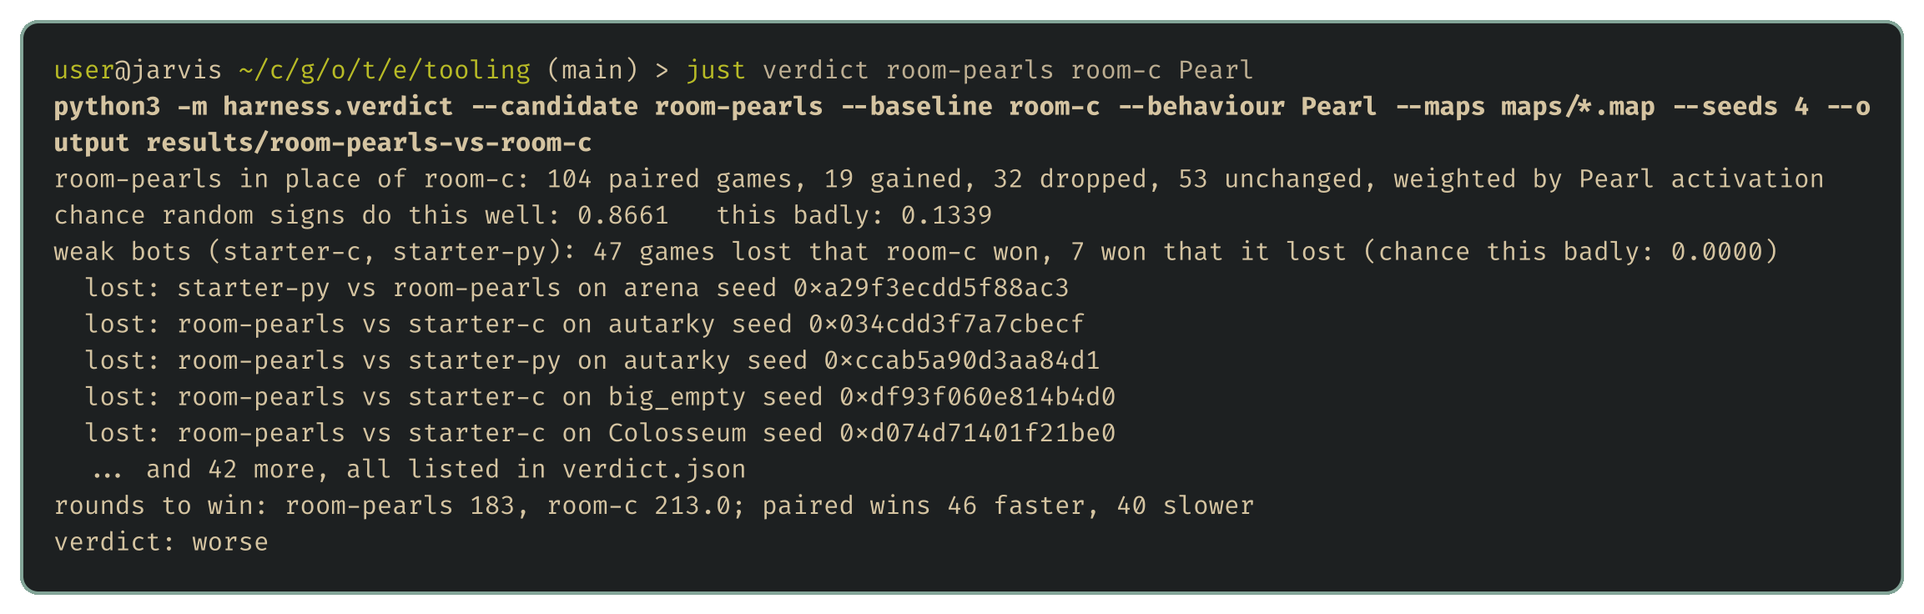
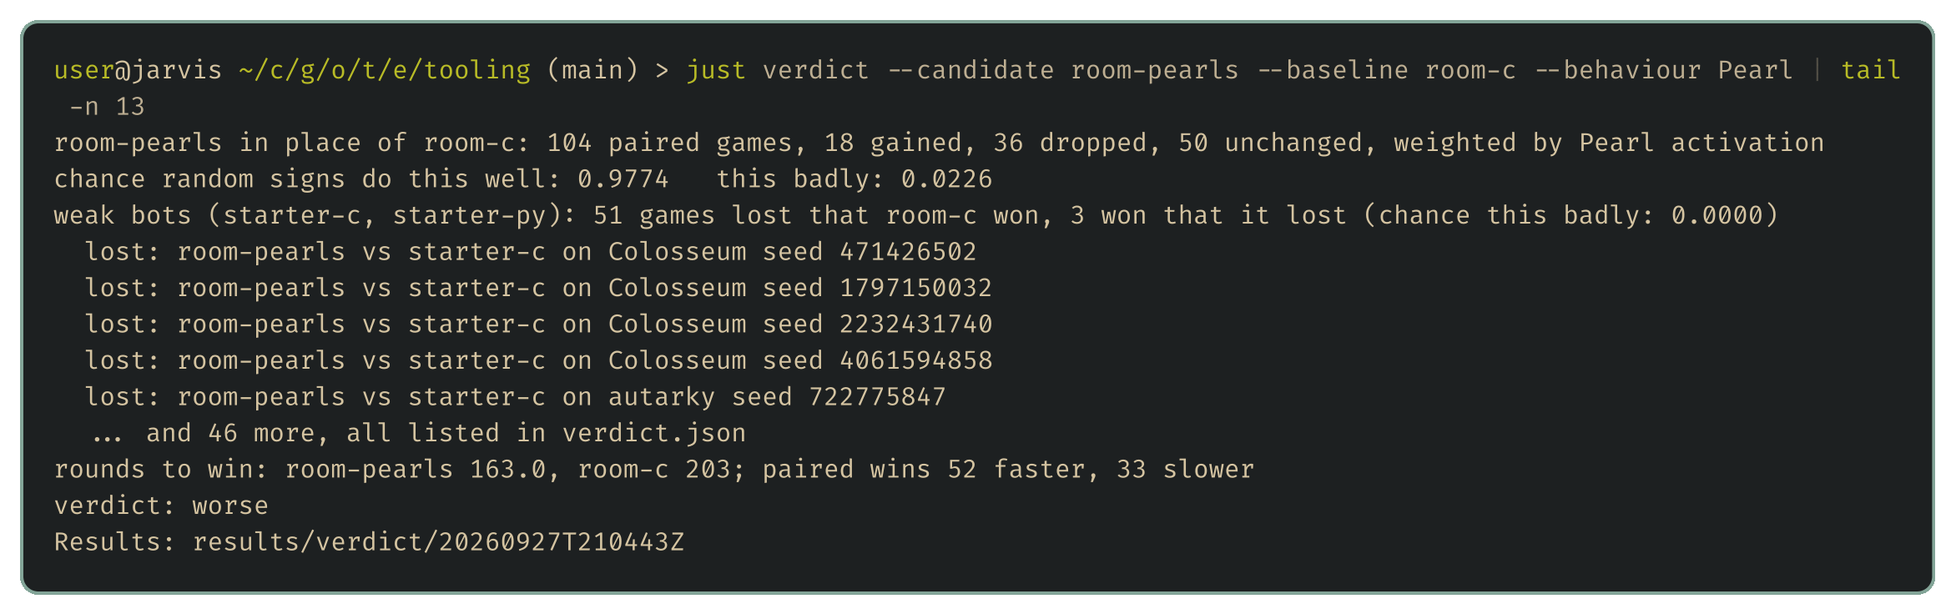
rerun the verdict and unseen maps posts with the released runner

diff --git a/blog/04-better-worse-or-undecided.md b/blog/04-better-worse-or-undecided.md
@@ -1,34 +1,32 @@
 # Better, worse or undecided
 
-With the [evaluation harness](03-the-evaluation-harness.md) we can play as many games as we like. But at the end of the last post we had two bots that make identical moves finishing four wins apart. A results table on its own will always tempt us to read meaning into gaps like that. This post builds the second tool on the wishlist, which answers the question we actually care about: did this change make the bot better?
+> **Editor's note, 28 September 2026.** I've rewritten this post to be shorter and to use the released verdict, which now plays its games through the released round robin runner. I reran the checks and the pearl-chasing experiment with it, so the numbers below are new.
 
-The command is `just verdict`, with the statistics in [harness/verdict.py](../harness/verdict.py). The current invocation is `just verdict --candidate room-pearls --baseline room-c --behaviour Pearl`; the screenshot below retains the original positional command. You give it a candidate bot and the baseline it changes, and it comes back with one of three answers: better, worse, or undecided.
+With the [harness](03-the-evaluation-harness.md) we can play as many games as we like, but a results table on its own will always tempt us to read meaning into small gaps. This post builds the tool that answers the question we actually care about: did this change make the bot better? The command is `just verdict`, with the statistics in [harness/verdict.py](../harness/verdict.py). You give it a candidate bot and the baseline it changes, and it comes back with one of three answers: better, worse, or undecided.
 
 ## Judging a result against luck
 
-The idea underneath is the same reasoning you'd use to judge any result by eye. Suppose a change made no difference at all. Then every game it won or lost could just as easily have gone the other way, like a coin flip. So the right question isn't "did the candidate win more?" but "how often would coin flips do at least this well?" If the answer is "almost never", the change is probably real. If it's "fairly often", we can't tell yet.
+The idea underneath is the reasoning you'd use to judge any result by eye. Suppose a change made no difference at all. Then every game it won or lost could just as easily have gone the other way, like a coin flip. So the right question isn't "did the candidate win more?" but "how often would coin flips do at least this well?" If the answer is "almost never", the change is probably real. If it's "fairly often", we can't tell yet.
 
-The numbers make this concrete. Out of 100 games, an even match will see one side win 60 or more only about 3% of the time, so a 60–40 result is strong evidence. But one side will win 55 or more about 18% of the time, so 55–45 could easily be luck. The verdict uses the usual cut-off: if coin flips would do this well less than 5% of the time, the candidate is better, and if they'd do this badly less than 5% of the time, it's worse.
+The numbers make this concrete. Out of 100 games, an even match sees one side win 60 or more only about 3% of the time, so a 60–40 result is strong evidence. But one side wins 55 or more about 18% of the time, so 55–45 could easily be luck. The verdict uses the usual cut-off: if coin flips would do this well less than 5% of the time, the candidate is better, and if they'd do this badly less than 5% of the time, it's worse.
 
-The hard part is deciding which games to count, and that's where most of this tool's design goes.
+The hard part is deciding which games to count, and that's where most of the tool's design goes.
 
 ## Comparing like with like
 
-A game of unswbc depends on two things besides the bots: the map, and the seed that decides where pearls appear and how each bot's random choices fall. So the verdict plays every game twice. The candidate plays the baseline on a map, side and seed, and then the baseline plays that same map, side and seed against the same opponent, sitting in the candidate's seat.
+A game depends on two things besides the bots: the map, and the seed that decides where pearls appear and how each bot's random choices fall. So the verdict plays every game twice. The candidate plays an opponent on a map, side and seed, and then the baseline plays that same map, side and seed against the same opponent, sitting in the candidate's seat.
 
-Seeded games are deterministic. If the candidate's change never comes into play in a game, both versions make exactly the same moves and the two games are identical. They cancel out, and only the games whose result changed are left:
+Seeded games are deterministic. If the candidate's change never comes into play in a game, both versions make exactly the same moves, the two games are identical, and they cancel out. Only the games whose result changed are left:
 
 ![Twelve pairs of games, the baseline above and the candidate below. Eight pairs have the same result and don't count. Four are outlined: in three the candidate won a game the baseline lost, and in one it lost a game the baseline won. Under each pair a bar shows how much of the game the changed behaviour ran.](images/paired-games.svg)
 
-This matters more than it looks. Most changes to a bot only fire in some situations: a rule for portals, a tactic for narrow corridors. If a change never fires on nine maps in ten and wins the tenth outright, counting every game hides that win among nine maps' worth of games that couldn't have gone any other way. Pairing throws those games out, so a change is judged on the games it could actually affect.
+This matters more than it looks, because most changes to a bot only fire in some situations: a rule for portals, a tactic for narrow corridors. If a change never fires on nine maps in ten and wins the tenth outright, counting every game buries that win under nine maps' worth of games that couldn't have gone any other way. Pairing throws those out, so a change is judged on the games it could actually affect.
 
 ## Weighing each game by how much the change ran
 
-Pairing still treats every changed game the same, whether the new behaviour ran for most of the game or for two turns near the end. A game where it ran for most of the turns says much more about it. So each bot names its behaviours: on every turn it writes the one that chose its move as its indicator, the short text the viewer shows beside a dragon. Running games with `unswbc run -v` puts every indicator in the log, so the verdict can count them.
+Pairing still treats every changed game the same, whether the new behaviour ran for most of the game or for two turns near the end, and the first kind says much more about it. So each bot names its behaviours. On every turn it writes the one that chose its move as its indicator, the short text the viewer shows beside a dragon, and if you tell the verdict which behaviour changed, it weights each changed game by the share of the candidate's turns that behaviour was active.
 
-If you tell the verdict which behaviour changed, it weights each changed game by the share of the candidate's turns in which that behaviour was active. A result the change played a large part in counts for more than one it barely touched.
-
-With weights, counting wins isn't enough any more, so the test becomes a sign flip. Add up the weighted changes, then ask how often random signs on the same changes would add up to at least as much:
+With weights, counting wins isn't enough any more, so the test becomes a sign flip: add up the weighted changes, then ask how often random signs on the same changes would add up to at least as much.
 
 ```python
 def sign_flip_p_values(changes: list[float], trials: int = 200_000) -> tuple[float, float]:
@@ -51,45 +49,41 @@ It's the coin-flip question again, asked of the changes themselves. With every w
 
 ## Games we should never lose
 
-Testing a change against the bot it came from has a blind spot. It never shows how the bot does against bots unlike itself. So the candidate and the baseline also both play a set of weak bots, the two starters, on the same maps, sides and seeds, and those games are paired too.
+Testing a change against the bot it came from has a blind spot: it never shows how the bot does against bots unlike itself. So the candidate and the baseline both also play the two starter bots, on the same maps, sides and seeds, and those games are paired too.
 
-The standard here is different. A decent bot should beat a bot that walks at random every single time, so a loss to one can't be put down to bad luck. It should be about as likely as a mouse beating a lion. A candidate that loses more of these games than the baseline did is never called better, and one that loses significantly more is worse. The verdict also lists every game the candidate lost to a weak bot that the baseline won, because each one is a bug to find, whatever the verdict says.
+The standard here is different. A decent bot should beat a bot that walks at random every single time, so a loss to one can't be put down to bad luck. It should be about as likely as a mouse beating a lion. A candidate that loses more of these games than the baseline did is never called better, and the verdict lists every game the candidate lost to a weak bot that the baseline won, because each one is a bug to find whatever the verdict says.
 
-## How hard a win was
-
-A win in 40 rounds and a win in 400 aren't the same result. So the verdict also compares game length, pair by pair: in the pairs both versions won, how often did the candidate win faster? It reports the median rounds to win for each version, and flags any win that's much shorter than the rest, because a very short game is sometimes a fluke worth looking at before trusting it.
+It also compares game length, pair by pair. A win in 40 rounds and a win in 400 aren't the same result, so it reports the median rounds to win for each version and flags any win much shorter than the rest, since a very short game is sometimes a fluke worth looking at before trusting it.
 
 ## Checking the tool on questions we can answer
 
-Before trusting a new tool with a real question, it's worth giving it questions where we already know the answer. For each of the runs below, the bots meet on all 13 bundled maps, from both sides, with four seeds.
+Before trusting a new tool with a real question, it's worth giving it some questions where we already know the answer. Each run below plays the 13 bundled maps from both sides on four seeds.
 
-The first check should be easy: the flood-fill bot from [The choice](02-the-choice.md) in place of the C starter bot, which just wanders about at random, so the flood-fill bot ought to come out clearly better. It does. Of the 104 paired games, 49 came out the same, and of the rest it gained 53 and dropped 2. Even so, it lost 4 games to the Python starter that the C starter had won, which is a reminder that a bot that only counts room can still walk into trouble.
+The first check should be easy: the flood-fill bot from [The choice](02-the-choice.md) in place of the C starter, which just wanders about at random. The flood-fill bot ought to come out clearly better, and it does. Of 104 paired games, 46 came out the same, and of the rest it gained 56 and dropped 2. Even so, it lost 2 games to the Python starter that the C starter had won, which is a reminder that a bot that only counts room can still walk into trouble.
 
-The second check is the more important one. The C and Python versions of the flood-fill bot make exactly the same move in every position, so neither can be better than the other, and a trustworthy tool has to say so. With pairing, the answer is exact rather than statistical: all 104 paired games were identical, nothing changed, and the verdict was undecided. A tool that found a difference here would be finding it in pure noise.
+The second check is the more important one. The C and Python versions of the flood-fill bot make exactly the same move in every position, so neither can be better than the other, and a trustworthy tool has to say so. With pairing, the answer is exact rather than statistical: all 104 paired games were identical, against the weak bots too, and the verdict was undecided. A tool that found a difference here would be finding it in pure noise.
 
 ## A real question
 
 Now for something we don't know the answer to. The flood-fill bot only cares about keeping room to move, and it ignores food completely. That seems like an obvious thing to fix. Eating pearls makes a dragon longer, and the longest dragon decides the game at round 500, so a bot that heads for food ought to do better.
 
-The candidate, `room-pearls`, keeps the flood fill, and adds one rule: when several moves all leave plenty of room, it picks the one nearest to a visible pearl. On the turns where that rule picks a different move from the one room alone would pick, it writes `Pearl` as its indicator, so the verdict can weigh each game by it. The rule decided about one turn in six:
+The candidate, `room-pearls`, keeps the flood fill and adds one rule: when several moves all leave plenty of room, it picks the one nearest a visible pearl. On the turns where that rule changes the move, it writes `Pearl` as its indicator, so the verdict can weigh each game by it:
 
-![A terminal running just verdict room-pearls room-c Pearl. Of 104 paired games, room-pearls gained 19, dropped 32 and left 53 unchanged, weighted by Pearl activation. Random signs do this badly 13% of the time. Against the weak bots it lost 47 games that room-c won and won 7 that room-c lost, and the first five losses are listed. Median rounds to win: 183 for room-pearls, 213 for room-c. The verdict is worse.](images/verdict-room-pearls.png)
+![A terminal running just verdict --candidate room-pearls --baseline room-c --behaviour Pearl. Of 104 paired games, room-pearls gained 18, dropped 36 and left 50 unchanged, weighted by Pearl activation, and random signs do this badly 2.3% of the time. Against the weak bots it lost 51 games that room-c won and won 3 that room-c lost, and the first five losses are listed. Median rounds to win: 163 for room-pearls, 203 for room-c, with 52 paired wins faster and 33 slower. The verdict is worse.](images/verdict-room-pearls.png)
 
-Head to head, the result is unclear. Of the 104 paired games, 53 came out the same, the pearl chaser won 19 that the flood-fill bot lost, and it lost 32 that the flood-fill bot won. Weighted by how much the pearl rule ran, random signs would do this badly 13% of the time, so on those games alone we couldn't call it worse.
+Head to head, the pearl chaser comes out worse. Of the 104 paired games, 50 came out the same, and of the rest it won 18 that the flood-fill bot lost and lost 36 that the flood-fill bot won. Weighted by how much the pearl rule ran, random signs would do that badly only 2.3% of the time.
 
-The weak bots settle it. Against the two starters, the pearl chaser lost 47 games that the flood-fill bot won, and won back only 7. Chasing food makes the bot beatable by bots that don't try at all, which is exactly the kind of failure a head-to-head test between two versions of the same bot can miss. It does win faster when it wins, a median of 183 rounds against 213, which fits: a bot that eats more grows faster. Working out why it keeps dying is a job for the debug viewer later in this stage.
+The weak bots make it much starker. Against the two starters, the pearl chaser lost 51 games that the flood-fill bot won and won back only 3. Chasing food makes the bot beatable by bots that don't try at all, which is exactly the kind of failure a head-to-head test between two versions of the same bot can miss. It does win faster when it wins, a median of 163 rounds against 203, which fits: a bot that eats more grows faster. Working out why it keeps dying is a job for the debug viewer later in this stage.
 
 ## Keeping the versions that win
 
-When a candidate comes out better, it becomes the new baseline, and the next idea has to beat it. We also save a numbered snapshot of it, which for now is just a copy of the bot's folder, and keep the last few snapshots around so that every new candidate has to beat them as well as the current baseline.
+When a candidate comes out better, it becomes the new baseline, and the next idea has to beat it. We also save a numbered snapshot of it, and keep the last few around so every new candidate has to beat them as well.
 
-The reason for keeping older versions is that beating the previous version isn't the same thing as getting better. Strategies in a game like this can go round in circles, the way rock, paper and scissors do. Suppose our first bot plays rock. Paper beats it, passes the verdict and becomes version 2. Scissors beats paper and becomes version 3. Then rock beats scissors and becomes version 4, even though it's exactly the bot we started with:
+The reason is that beating the previous version isn't the same thing as getting better. Strategies can go round in circles, the way rock, paper and scissors do. Suppose our first bot plays rock. Paper beats it and becomes version 2, scissors beats paper and becomes version 3, and then rock beats scissors and becomes version 4, even though it's exactly the bot we started with:
 
 ![Rock, paper, scissors, rock, paper, scissors, labelled v1 to v6, with each version beating the one before it. The labels read as steady progress, but v4 plays exactly like v1.](images/version-cycle.svg)
 
-Every step in that sequence passed a fair test, and the version numbers suggest six rounds of progress, but the bot has only gone round in a circle. Real bots can do the same thing in subtler ways. A change that makes our dragons better at dodging the last version's attacks might also make them worse against a bot that simply forages, and if we only ever tested against the previous version, we'd never find out. Running the verdict against the last few snapshots as well catches this, because a version that has quietly gone back round the circle will lose to one of its own ancestors.
-
-We keep only the last few snapshots in testing rather than all of them, because much older versions are usually easy wins, and playing them spends games without telling us anything new. The offline Elo ladder, which comes later in this stage, will rate every snapshot against every other, so the whole history can be seen at once.
+Every step in that sequence passed a fair test, and the bot has only gone round in a circle. Real bots do the same in subtler ways. A change that makes our dragons better at dodging the last version's attacks might also make them worse against a bot that simply forages, and testing against the last few snapshots catches that, because a version that has gone back round the circle loses to one of its own ancestors. The [ladder](06-a-ladder-of-our-own.md), later in this stage, rates every snapshot against every other so the whole history can be seen at once.
 
 ## Next up
 

diff --git a/blog/05-maps-nobody-has-seen.md b/blog/05-maps-nobody-has-seen.md
@@ -1,94 +1,66 @@
 # Maps nobody has seen
 
-The organisers have said that every Sprint, Qualifier and Grand Final map will be brand new. That's a problem for anyone who only tests on the 13 maps bundled with the toolkit. A bot can quietly come to depend on something those maps happen to have in common, and look strong right up until the tournament puts it on a map without it. We can't test on the tournament maps, because nobody has seen them. What we can do is make lots of new maps that look like the real thing and test on those.
+> **Editor's note, 28 September 2026.** I've rewritten this post to be shorter and to use the released map generator and round robin runner. I redrew the figures and reran the comparison with them.
 
-That's the map generator from the wishlist. It comes before the offline Elo ladder, because the ladder will want to rate bots on these maps too. This post builds it, and then uses it straight away to find a blind spot in the flood-fill bot that the bundled maps had been hiding.
+The organisers have said that every Sprint, Qualifier and Grand Final map will be brand new. That's a problem for anyone who only tests on the 13 maps bundled with the toolkit, because a bot can quietly come to depend on something those maps happen to have in common, and look strong right up until the tournament puts it on a map without it. We can't test on maps nobody has seen, but we can make lots of new ones that look like the real thing. That's the map generator from the wishlist, and this post builds it and then uses it straight away to find a blind spot the bundled maps had been hiding.
 
 ## What a plausible map needs
 
-The generator, [harness/mapgen.py](../harness/mapgen.py), writes maps in the official format. The hard part is making them plausible, which means varied enough to find surprises but still recognisably the same game. So it's modelled on the maps the ladder has actually used, and each choice it makes is one that can trip up a bot.
+The generator, `just mapgen`, writes maps in the official format. The hard part is making them plausible: varied enough to find surprises, but still recognisably the same game. So I modelled it on the maps the ladder has actually used, and each choice it makes is one that can trip up a bot.
 
-Size and shape come first. Ladder maps range from small, cramped boards where dragons are always bumping into each other, to 64 by 64, where they may barely meet. Some are square and some are long and narrow. A bot that only ever plays on medium-sized square maps can pick up habits that fall apart at either extreme, so the generator covers the whole range.
+Size and shape come first. Ladder maps range from cramped boards where dragons are always bumping into each other up to 64 by 64, where they may barely meet, and some are square while others are long and narrow. A bot that only ever plays medium-sized square maps picks up habits that fall apart at either extreme.
 
-Every map is also symmetric, mirrored or rotated so that both teams start in equivalent positions. That's how the real maps are built, and it keeps the games fair, so a win means something.
-
-The generator never places anything on its own. Every tile it uses has a mirror image, found by flipping one axis or rotating the board half a turn, and every piece of kelp goes in together with its mirror:
+Every map is also symmetric, mirrored or rotated so both teams start in equivalent positions, which keeps the games fair. The generator never places anything on its own: every piece of kelp goes in together with its mirror image.
 
 ```python
-def mirror_tile(layout: GeneratedMap, tile: Tile) -> Tile:
-    x, y = tile
-    w, h = layout.width, layout.height
-    if layout.symmetry == "y":
-        return (w - 1 - x, y)
-    if layout.symmetry == "x":
-        return (x, h - 1 - y)
-    return (w - 1 - x, h - 1 - y)
-
-
 def add_kelp_symmetrically(layout: GeneratedMap, edge: Edge) -> None:
     layout.kelp.add(edge)
     layout.kelp.add(mirror_edge(layout, edge))
 ```
 
-The kelp is where the variety really comes in. Kelp walls change how a dragon has to move, and different layouts demand different skills: open ground, scattered short walls, closed rooms, a maze, or a single wall dividing the board. The generator mixes these, and adds portals in pairs, because portals are the part of the game that most often breaks a bot's assumptions about where a move leads.
+The kelp is where the variety really comes in, because different layouts demand different skills. Open ground, scattered short walls, closed rooms, pillars, a maze or a single dividing wall each change how a dragon has to move, and the generator mixes one to three of them. It adds portals in pairs, since portals break a bot's assumptions about where a move leads more often than anything else. And it spreads pearls in different ways: everywhere, scarcely, in a contested middle, or in a private field on each side, which tests a bot's sense of when to go looking for food.
 
-Pearls matter too. On some maps food is spread everywhere, on others it's scarce, and on others it's concentrated in a contested middle or in a private field on each side. A bot's sense of when to go looking for food is tested very differently by each.
-
-Random choices like these can easily produce a map that's useless for testing, like a board mostly walled off, or teams starting right on top of each other. So before a map is kept, the generator checks that most of the board is reachable, that the two teams start at least four tiles apart, and that no dragon starts boxed in. The whole recipe is one retry loop. It picks a size, a symmetry and one to three kelp styles, adds portals, and throws the map away and starts again whenever a check fails:
+Random choices like these can easily produce a useless map, mostly walled off, or with the teams starting on top of each other. So the whole recipe is one retry loop, which throws the map away and starts again whenever too little of the board is reachable or the dragons can't be placed with room around them:
 
 ```python
-def generate_map(generator: random.Random, name: str) -> GeneratedMap:
-    while True:
-        # ... pick the size, symmetry and kelp styles, and draw the kelp
-        if len(layout.kelp) > (0.6 if dense else 0.35) * 2 * width * height:
-            continue
-        add_portals(layout, generator, min(generator.choice([0, 0, 1, 2, 3, 4, 6]), width * height // 80))
-        playable = largest_component(layout)
-        if len(playable) < (0.35 if dense else 0.6) * width * height:
-            continue
-        # ... choose how many dragons each team starts with, and how long
-        if not place_dragons(layout, generator, playable, len(lengths), lengths):
-            continue
-        assign_spawn_ranges(layout, generator, playable, generator.choice(FOOD_LAYOUTS))
-        return layout
+add_portals(
+    layout,
+    generator,
+    min(generator.choice([0, 0, 1, 2, 3, 4, 6]), width * height // 80),
+)
+playable = largest_component(layout)
+if len(playable) < (0.35 if dense else 0.6) * width * height:
+    continue
+area = width * height
+per_team = generator.randint(1, 2 if area < 400 else 4 if area < 1600 else 6)
+lengths = starting_lengths(generator, per_team, len(playable) // 2)
+if not place_dragons(layout, generator, playable, len(lengths), lengths):
+    continue
+assign_spawn_ranges(layout, generator, playable, generator.choice(FOOD_LAYOUTS))
+return layout
 ```
 
-Run the generator from `examples/tooling`:
+The seed makes it reproducible, so `just mapgen --count 20 --seed 2026 --output maps-generated` gives you the same 20 maps I'm using here:
 
-```sh
-just mapgen --count 20 --seed 2026 --output maps-generated
-```
-
-The seed reproduces the same maps with the same generator version. The current
-source is a frozen copy of the private generator, identified in
-[the release manifest](../tooling-release.json). The figures below retain the
-article's original experiment; they haven't been regenerated with that snapshot:
-
-![Twenty generated maps, drawn as boards with their kelp, portals and starting dragons. They range from a narrow 10×8 map to 64×64, with open maps, mazes and walled rooms.](images/generated-maps.svg)
+![Twenty generated maps from seed 2026, drawn as boards with their kelp, portals, pearl tiles and starting dragons. They range from a 10×8 map to 64×64, with open maps, mazes and walled rooms.](images/generated-maps.svg)
 
 ## The flood-fill bot on new maps
 
-To see whether the new maps tell us anything, we'll play the same matchup twice: the flood-fill bot against the C starter, first on the bundled maps and then on the 20 generated ones. If the generated maps were just more of the same, both runs should look alike.
+To see whether the new maps tell us anything, we'll play the same matchup twice, the flood-fill bot from [The choice](02-the-choice.md) against the C starter, first on the bundled maps and then on the generated ones. If the generated maps were just more of the same, both runs should look alike. `just unseen-maps` generates the maps and plays both, two seeds per map and side, in the sandbox:
 
-![A terminal running just unseen-maps. The generator lists 20 maps with their size, symmetry, kelp and portals. On the bundled maps, room-c wins 50 games and loses 2. On the generated maps it wins 72 and loses 8.](images/unseen-maps.png)
+![A terminal running just unseen-maps, filtered to its two results tables. On the bundled maps, room-c won 52 games and lost none against starter-c. On the generated maps, room-c won 74 and lost 6.](images/unseen-maps.png)
 
-They don't. The flood-fill bot lost only 2 of its 52 games on the bundled maps, but 8 of its 80 on the generated ones, about two and a half times as often. That's already worth knowing, since it means the bundled maps flatter this bot. But the more useful part is what the losses looked like.
+The first pair of rows is the bundled maps and the second the generated ones, and they don't look alike. The flood-fill bot won all 52 of its games on the bundled maps, but lost 6 of its 80 on the generated ones. That's already worth knowing, since it means the bundled maps flatter this bot, but the more useful part is what the losses looked like.
 
-In the games it lost on generated maps, its dragons mostly died by running into their own bodies. That's strange, because the flood fill is supposed to make that impossible. It marks every tile with a dragon on it as blocked, including our own dragon's tiles, and never moves into one.
-
-The replays showed what was going on. In every one of those deaths I traced, the fatal move went through a portal. The flood fill treats a portal like any other open edge, as if the dragon would simply step onto the tile next door. But a portal actually carries the dragon to its partner edge, which can be anywhere on the map. Sometimes that's right where the dragon's own body is.
-
-Nine of the 13 bundled maps have portals too, and the bot rarely lost on them, so we'd never have spotted this without the new maps. Fixing it properly means teaching the flood fill how portals work, and it's the first job for the strategy posts.
+Half of those losses came down to a dragon running into its own body, which is strange, because the flood fill is supposed to make that impossible: it never moves onto a tile holding a segment, ours included. The replays showed what was going on. In all three of those deaths, the fatal move went through a portal. The flood fill treats a portal like any other open edge, as if the dragon would just step onto the tile next door, but a portal carries it to its partner edge, which can be anywhere on the map. Sometimes that's right where the dragon's own body is. Nine of the bundled maps have portals too, and the bot rarely lost on them, so we'd never have spotted this without the new maps. Teaching the bot how portals work is the first job for the strategy posts.
 
 ## Where the tools fit
 
-That's three of the eight tools on the wishlist. The harness plays the games, the statistics tell us what the results mean, and the generator makes sure those results hold on maps nobody has seen. Here's how they fit around the bot, next to the official toolkit and the rest of the wishlist:
+That's three of the eight tools. The harness plays the games, the statistics tell us what the results mean, and the generator makes sure the results hold on maps nobody has seen:
 
 ![Our tools around the bot. The current bot sits in the middle, written in Nim with hot paths in C and compiled to WebAssembly, with numbered snapshots of earlier versions saved below it. The official toolkit is on the right: unswbc init, unswbc run --sandbox, --seed, unswbc maps, the visualiser and unswbc submit. Our wishlist tools are on the left with their languages: the evaluation harness, statistics and map generator in Python are built, and the offline Elo ladder, replay sampler, replay decoder, the Odin debug viewer and profiling are still to come. Ideas from the grand strategy, tactical ideas and espionage stages flow into the bot from the top.](images/pipeline.svg)
 
-The point of all this is to take the drudgery out of improving a bot. Without these tools, every idea means hours of running games by hand and squinting at results that might just be luck. With them, trying an idea is one command, and the answer comes back as better, worse or undecided, tested on maps the bot has never seen. When a version passes, we save a numbered snapshot of it, and it becomes the version to beat.
-
-Those three are enough to tell whether an idea worked, and every later post leans on them. The other five on the wishlist answer different questions. The offline Elo ladder shows whether the bot is getting better overall, and not just beating its last version. The replay sampler and decoder open up the other teams' games for study. The debug viewer shows why one of our dragons did what it did, and profiling shows where its CPU budget went. The rest of this stage builds those, and then the series turns to the part that actually decides games: the strategy and tactics of the dragons themselves.
+Those three take the drudgery out of improving a bot. Trying an idea is now one command, and the answer comes back as better, worse or undecided, tested on maps the bot has never seen. The other five tools answer different questions: whether the bot is improving overall, what the other teams are doing, why one of our dragons did what it did, and where its CPU budget went.
 
 ## Next up
 
